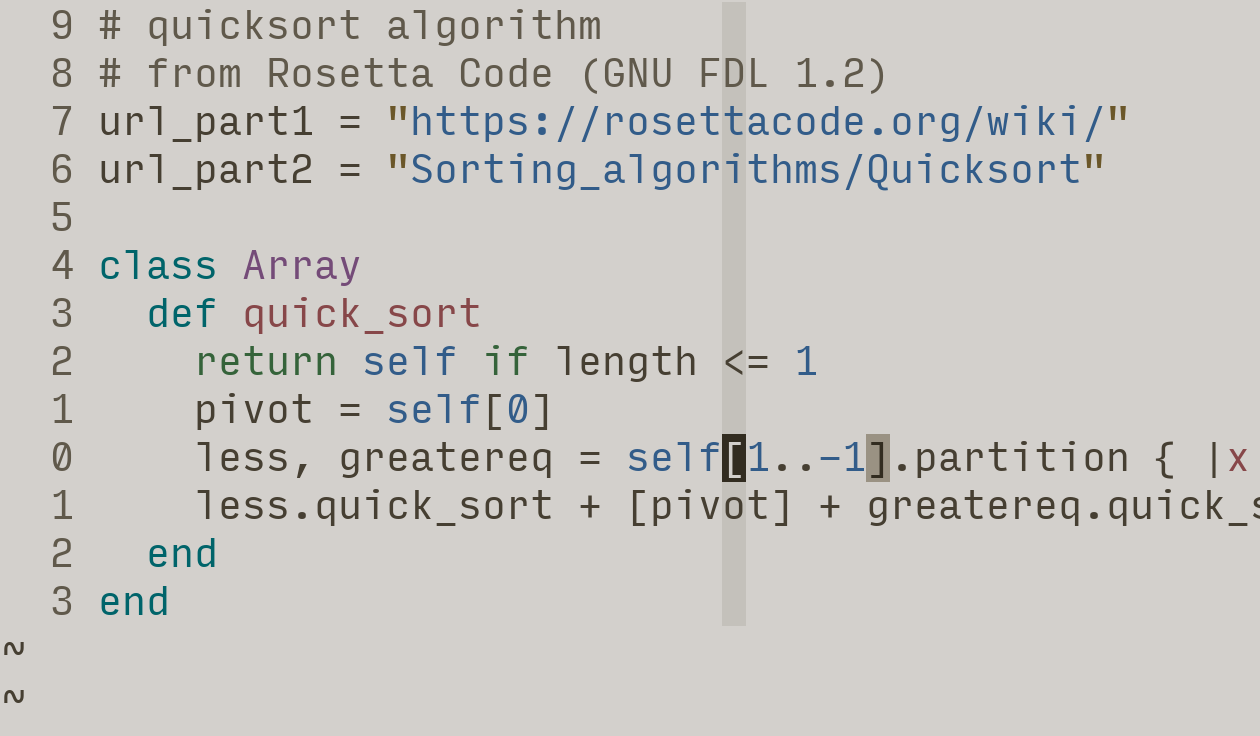
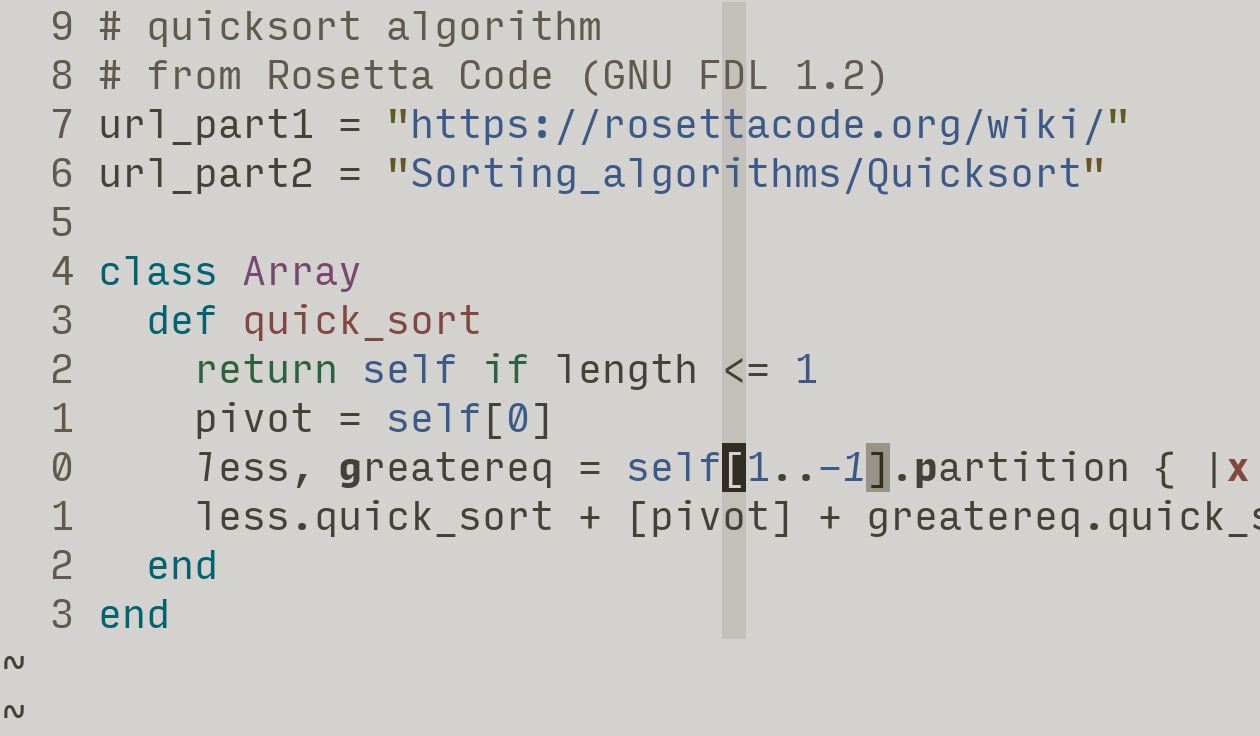
replicate snow adjustments

diff --git a/templates/template-generator.py b/templates/template-generator.py
@@ -252,28 +252,28 @@ def print_fish(name,bg):
   print 'set fish_pager_color_prefix      @guimgnt'
   print 'endauxfile'
 
-hue_red_ = 022.5
-hue_gold = 082.5
-hue_gren = 142.5
-hue_cyan = 202.5
-hue_blue = 262.5
-hue_mgnt = 322.5
+hue_red_ = 030.0
+hue_gold = 090.0
+hue_gren = 150.0
+hue_cyan = 210.0
+hue_blue = 270.0
+hue_mgnt = 330.0
 
 cro_ltacnt = phic(2.50)
 
-hexgry0_lt = tohex( phic(0.37) , phic(7.50) , hue_gold )
-hexgry1_lt = tohex( phic(0.51) , phic(7.00) , hue_gold )
-hexgryp_lt = tohex( phic(1.03) , phic(5.00) , hue_gold )
-hexgry2_lt = tohex( phic(2.00) , phic(5.00) , hue_gold )
-hexgry3_lt = tohex( phic(2.71) , phic(5.00) , hue_gold )
-hexgryc_lt = tohex( phic(3.50) , phic(5.00) , hue_gold )
+hexgry0_lt = tohex( phic(0.36) , phic(8.00) , hue_gold )
+hexgry1_lt = tohex( phic(0.52) , phic(7.00) , hue_gold )
+hexgryp_lt = tohex( phic(1.02) , phic(5.50) , hue_gold )
+hexgry2_lt = tohex( phic(1.98) , phic(5.00) , hue_gold )
+hexgry3_lt = tohex( phic(2.68) , phic(5.50) , hue_gold )
+hexgryc_lt = tohex( phic(3.48) , phic(5.50) , hue_gold )
 
-hexred__lt = tohex( phic(1.99) , cro_ltacnt , hue_red_ )
-hexgold_lt = tohex( phic(1.99) , cro_ltacnt , hue_gold )
-hexgren_lt = tohex( phic(2.01) , cro_ltacnt , hue_gren )
-hexcyan_lt = tohex( phic(2.04) , cro_ltacnt , hue_cyan )
-hexblue_lt = tohex( phic(2.02) , cro_ltacnt , hue_blue )
-hexmgnt_lt = tohex( phic(2.01) , cro_ltacnt , hue_mgnt )
+hexred__lt = tohex( phic(2.03) , cro_ltacnt , hue_red_ )
+hexgold_lt = tohex( phic(2.03) , cro_ltacnt , hue_gold )
+hexgren_lt = tohex( phic(2.03) , cro_ltacnt , hue_gren )
+hexcyan_lt = tohex( phic(2.03) , cro_ltacnt , hue_cyan )
+hexblue_lt = tohex( phic(2.03) , cro_ltacnt , hue_blue )
+hexmgnt_lt = tohex( phic(2.03) , cro_ltacnt , hue_mgnt )
 
 hexsrch_lt = tohex( phic(0.75) , phic(2.00) , hue_gold )
 

diff --git a/README.md b/README.md
@@ -9,13 +9,13 @@
 
 <tr>
 <td><code>Normal bg</code></td>
-<td><img src='http://www.colorhexa.com/d3d0cc.png' height='24' width='39'></td>
+<td><img src='http://www.colorhexa.com/d3d2ce.png' height='24' width='39'></td>
 <td rowspan='11'>
 <br>
 <img alt="screenshot of the rusticated vim theme" src="https://github.com/nightsense/rusticated/raw/master/images/screenshot.png" width="422" />
 <br><br>
 </td>
-<td><img src='http://www.colorhexa.com/874749.png' height='24' width='39'></td>
+<td><img src='http://www.colorhexa.com/834742.png' height='24' width='39'></td>
 <td><code>Identifier</code></td>
 </tr>
 
@@ -23,8 +23,8 @@
 
 <tr>
 <td><code>ColorColumn</code></td>
-<td><img src='http://www.colorhexa.com/c4c1bb.png' height='24' width='39'></td>
-<td><img src='http://www.colorhexa.com/6b5729.png' height='24' width='39'></td>
+<td><img src='http://www.colorhexa.com/c3c0ba.png' height='24' width='39'></td>
+<td><img src='http://www.colorhexa.com/645826.png' height='24' width='39'></td>
 <td><code>Special</code></td>
 </tr>
 
@@ -32,8 +32,8 @@
 
 <tr>
 <td><code>MatchParen</code></td>
-<td><img src='http://www.colorhexa.com/9a9283.png' height='24' width='39'></td>
-<td><img src='http://www.colorhexa.com/35633a.png' height='24' width='39'></td>
+<td><img src='http://www.colorhexa.com/989387.png' height='24' width='39'></td>
+<td><img src='http://www.colorhexa.com/2c633f.png' height='24' width='39'></td>
 <td><code>Statement</code></td>
 </tr>
 
@@ -41,8 +41,8 @@
 
 <tr>
 <td><code>Comment</code></td>
-<td><img src='http://www.colorhexa.com/60594b.png' height='24' width='39'></td>
-<td><img src='http://www.colorhexa.com/00646a.png' height='24' width='39'></td>
+<td><img src='http://www.colorhexa.com/5f5a4c.png' height='24' width='39'></td>
+<td><img src='http://www.colorhexa.com/006470.png' height='24' width='39'></td>
 <td><code>PreProc</code></td>
 </tr>
 
@@ -50,8 +50,8 @@
 
 <tr>
 <td><code>Normal fg</code></td>
-<td><img src='http://www.colorhexa.com/463f32.png' height='24' width='39'></td>
-<td><img src='http://www.colorhexa.com/325c89.png' height='24' width='39'></td>
+<td><img src='http://www.colorhexa.com/444136.png' height='24' width='39'></td>
+<td><img src='http://www.colorhexa.com/3c5a89.png' height='24' width='39'></td>
 <td><code>Constant</code></td>
 </tr>
 
@@ -59,8 +59,8 @@
 
 <tr>
 <td><code>Cursor</code></td>
-<td><img src='http://www.colorhexa.com/322c20.png' height='24' width='39'></td>
-<td><img src='http://www.colorhexa.com/744b78.png' height='24' width='39'></td>
+<td><img src='http://www.colorhexa.com/312d23.png' height='24' width='39'></td>
+<td><img src='http://www.colorhexa.com/784872.png' height='24' width='39'></td>
 <td><code>Type</code></td>
 </tr>
 
